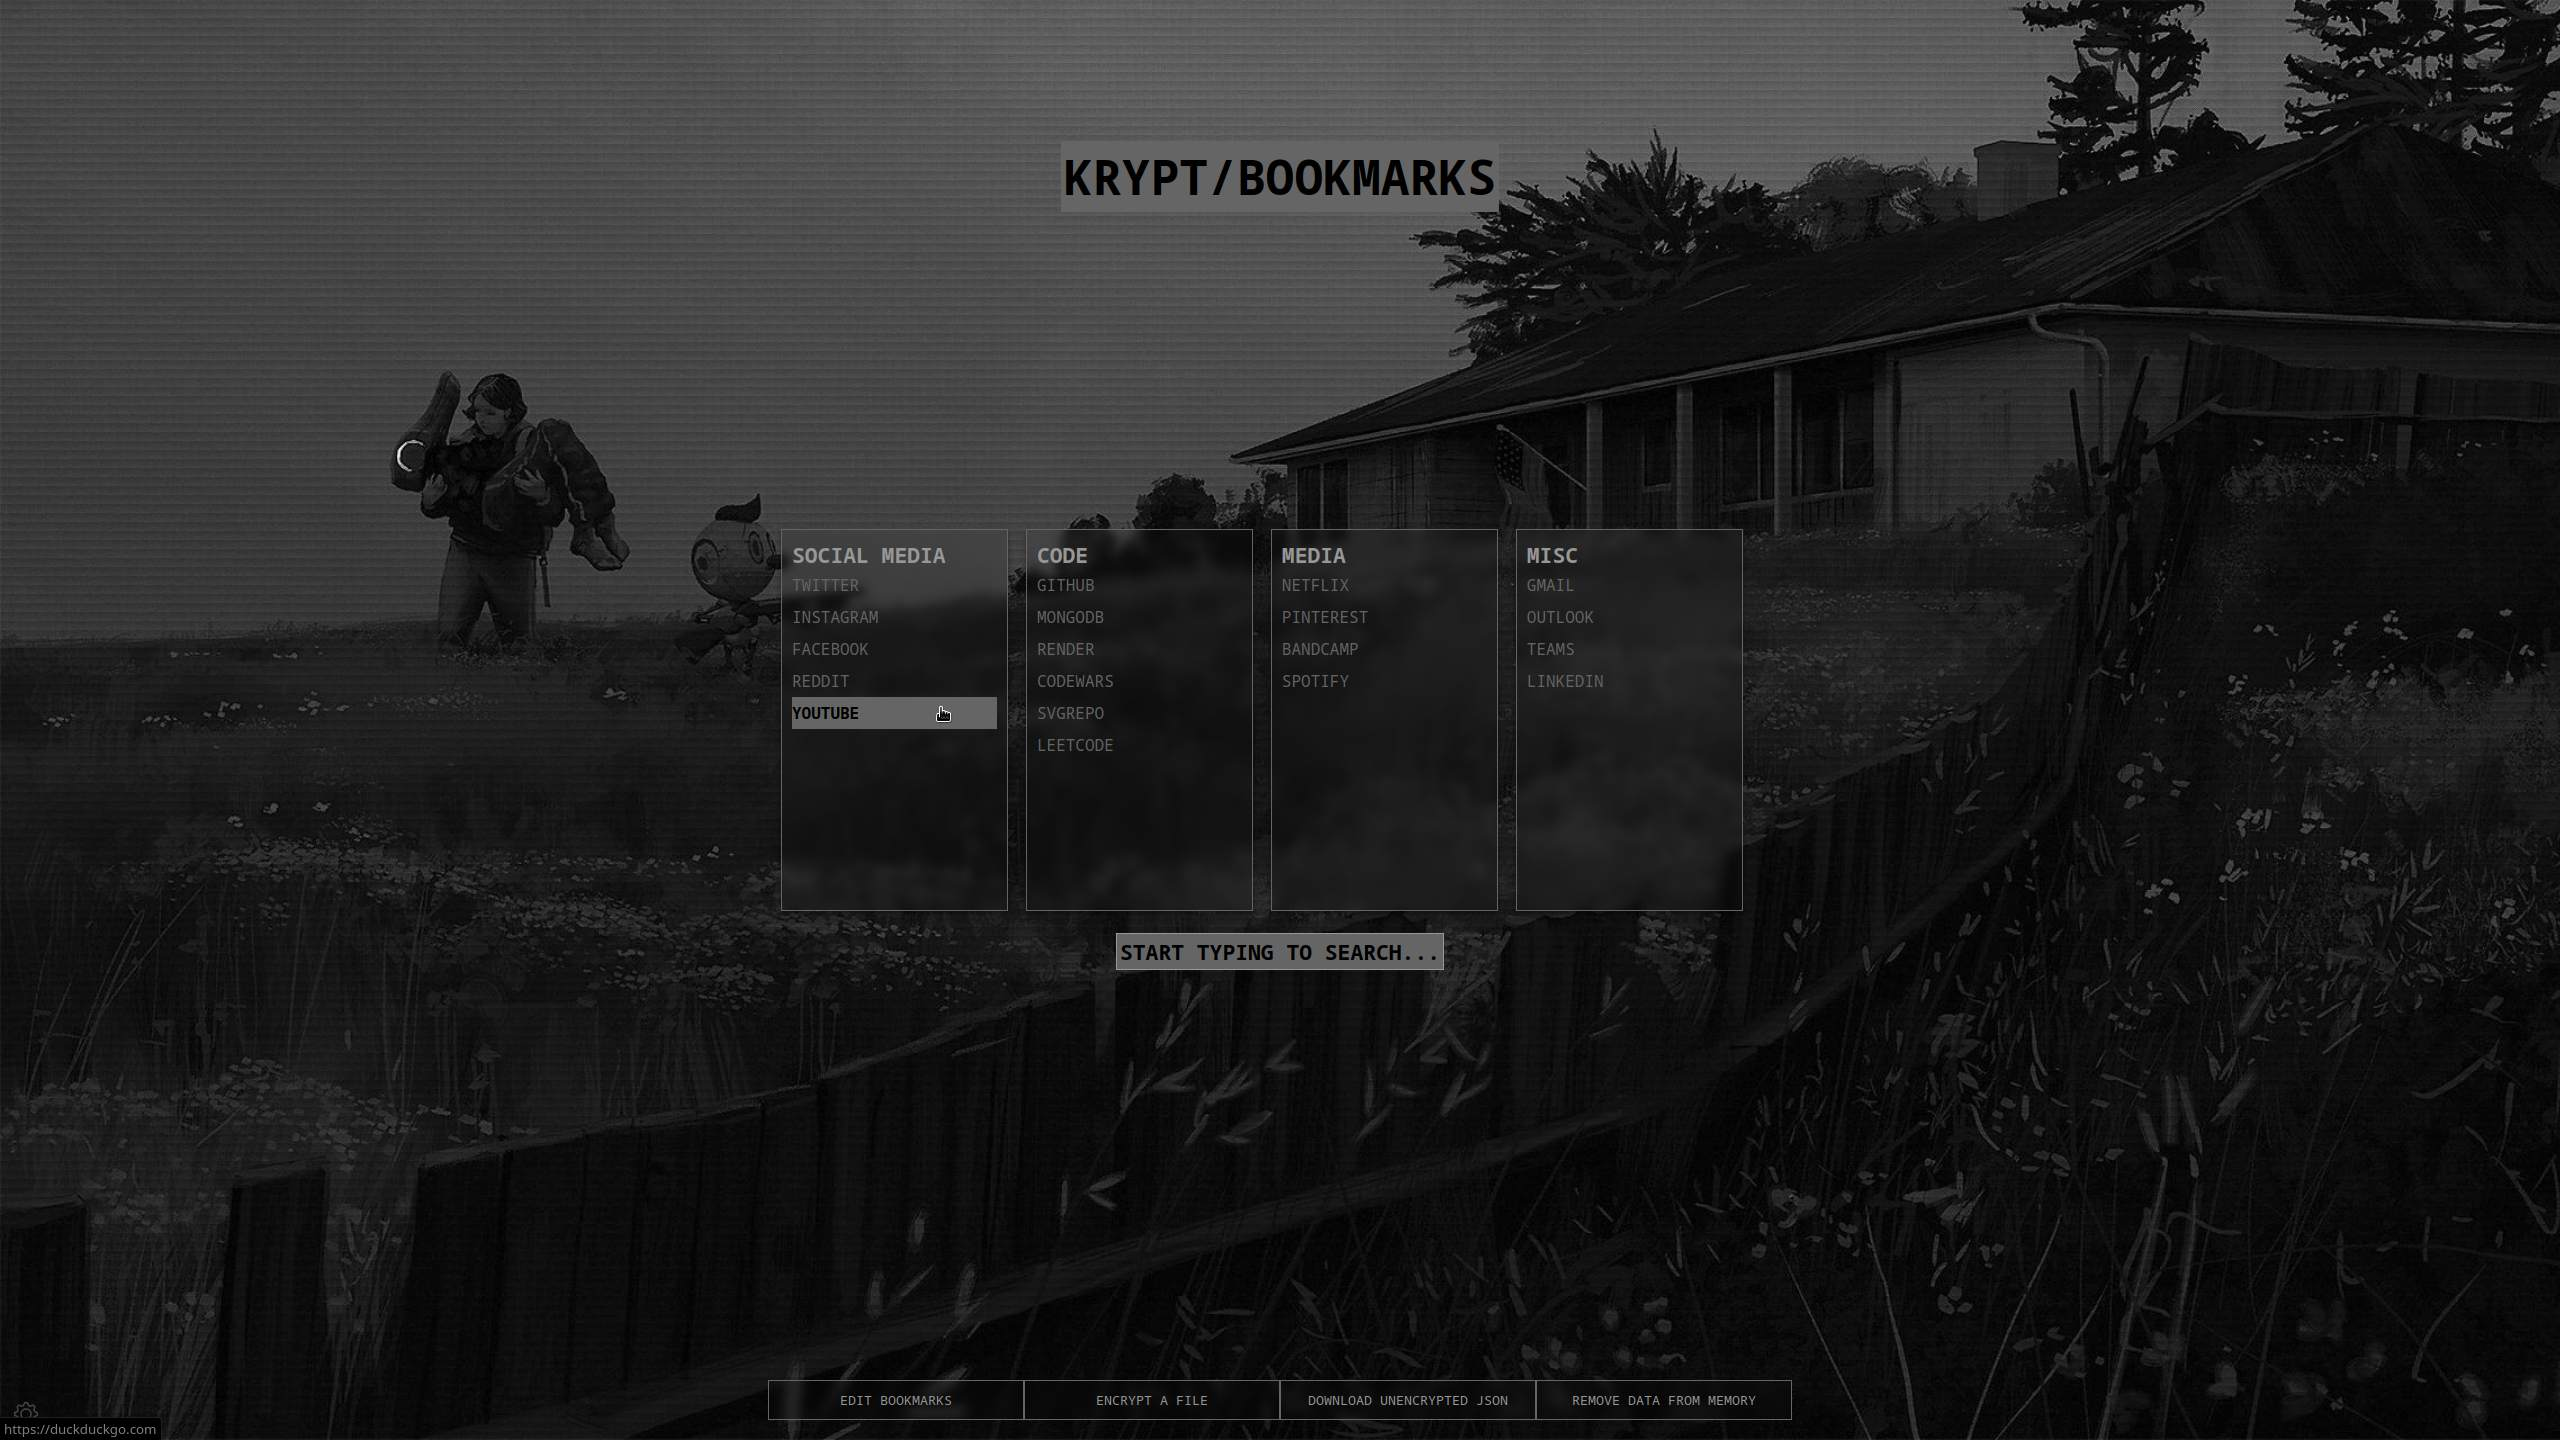
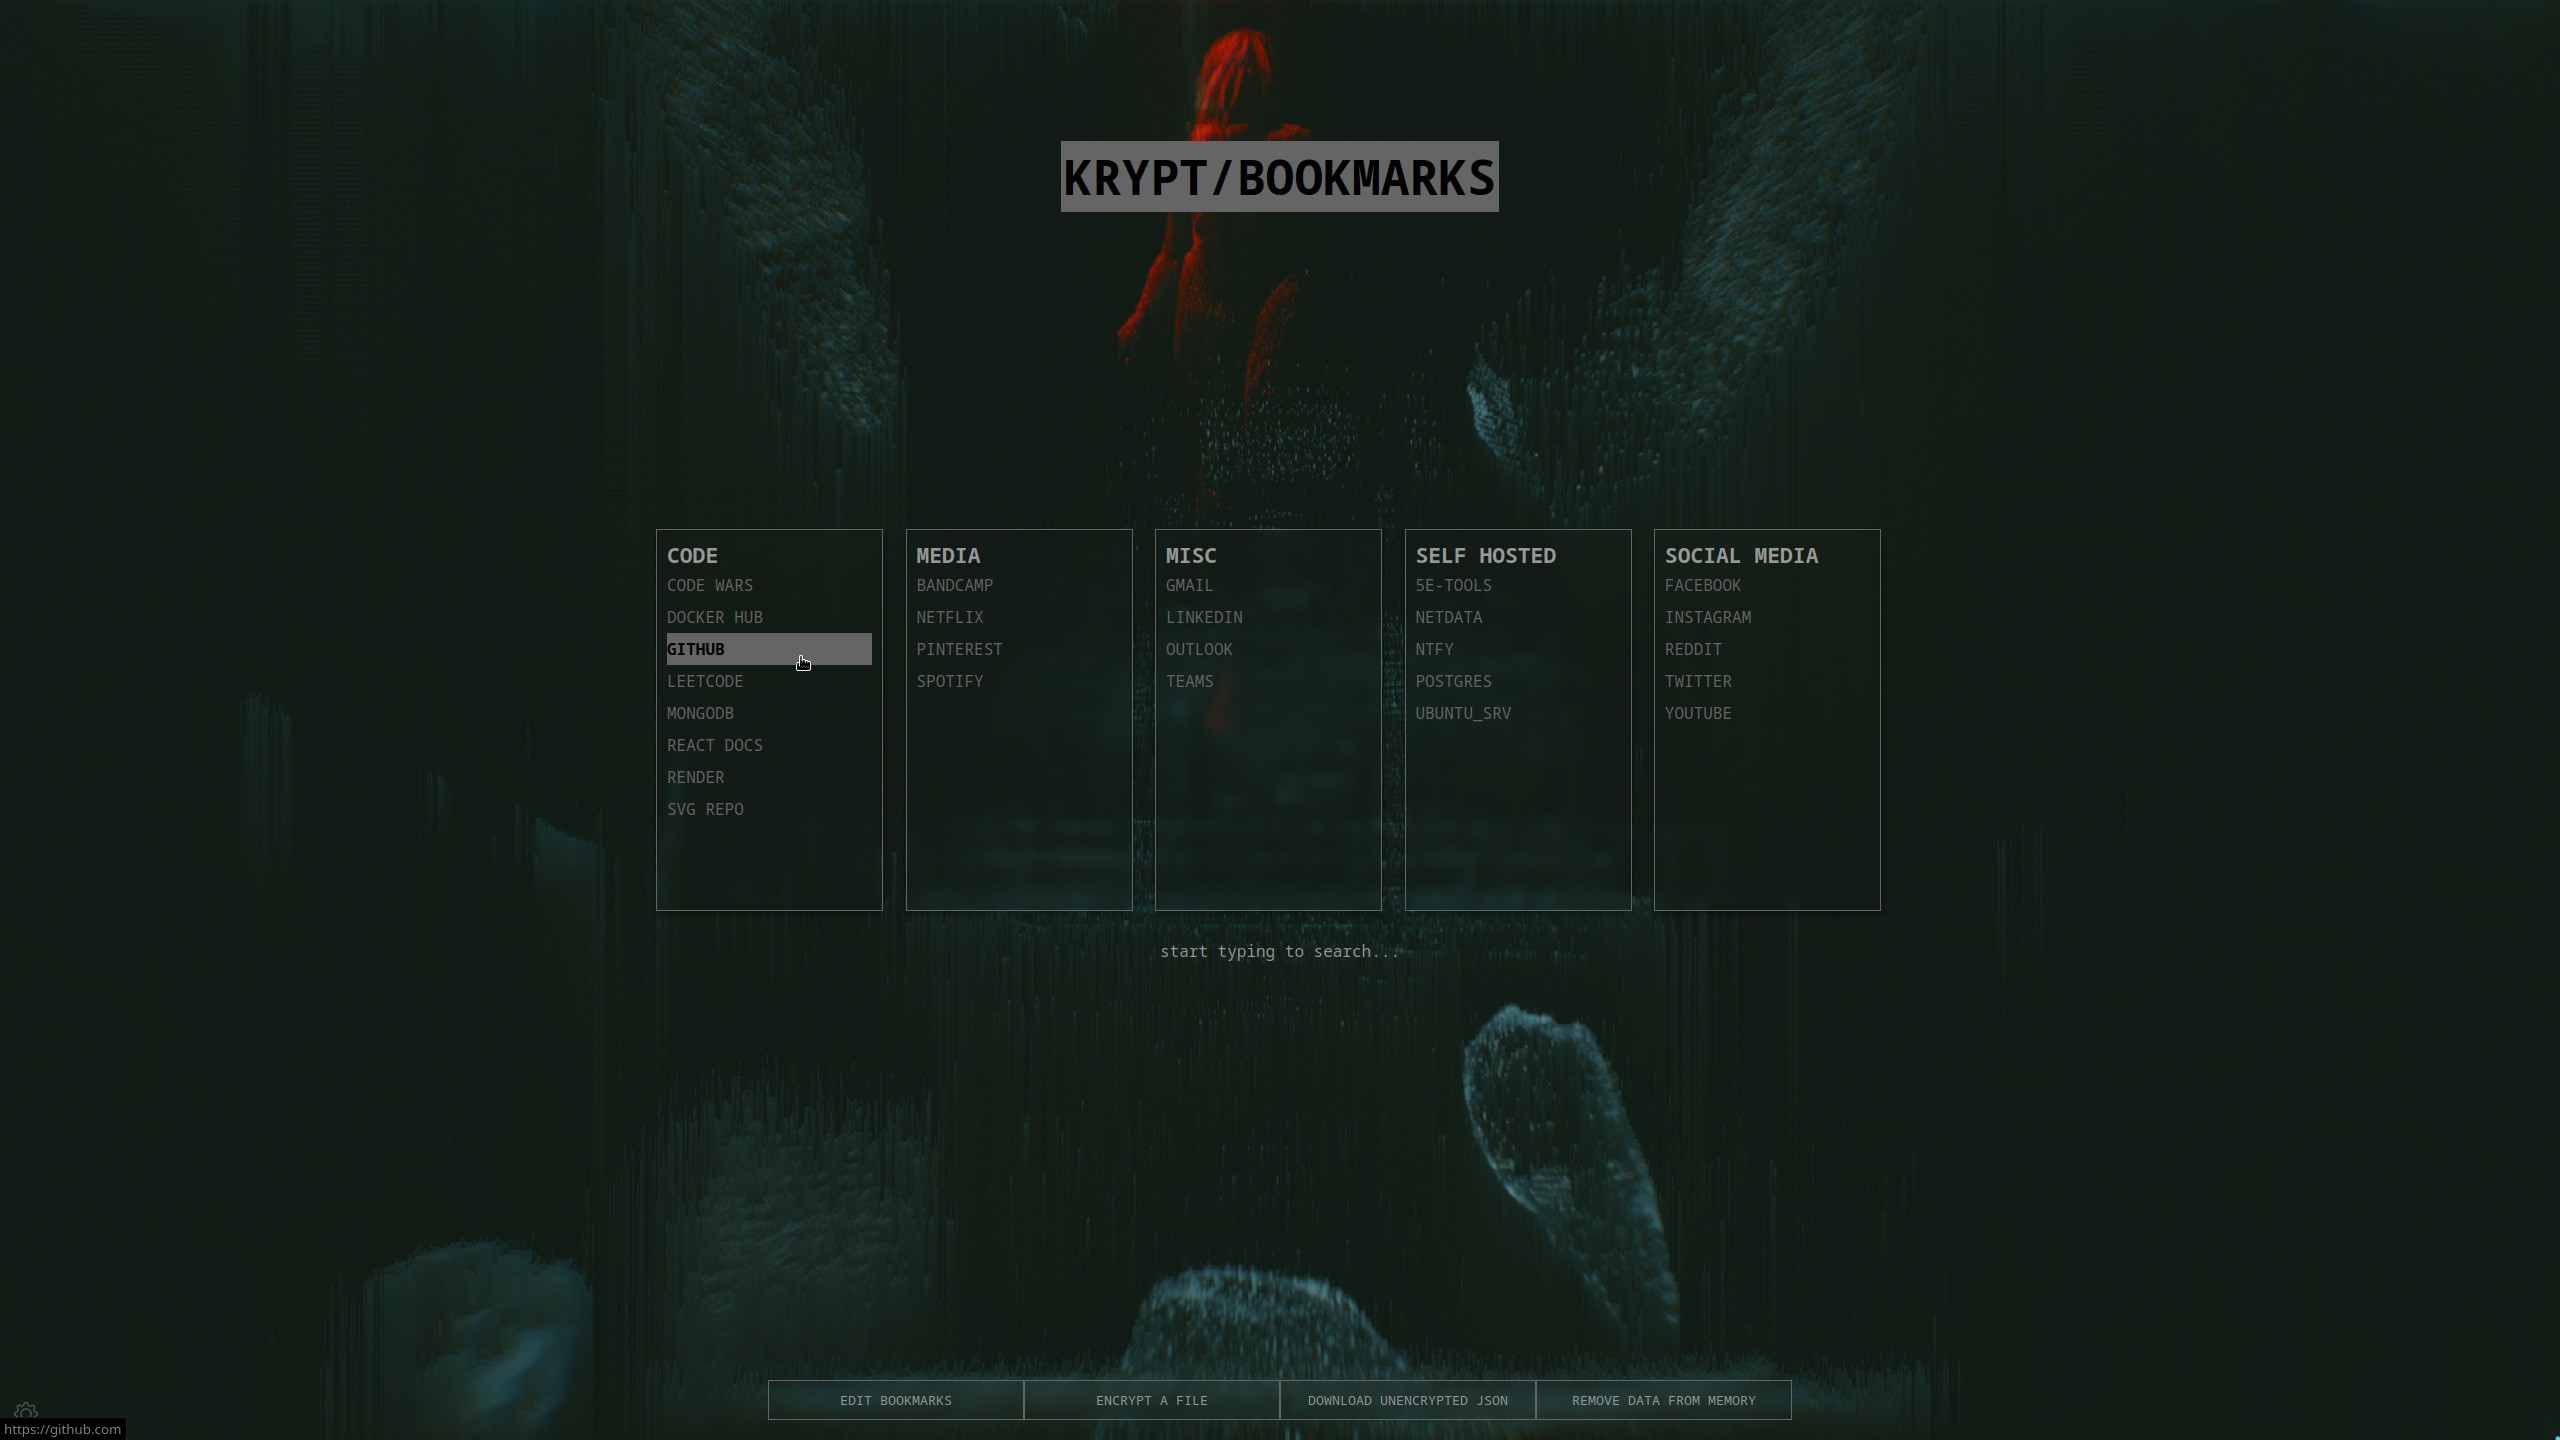
Data now gets fully sorted alphabetically when bookmarks instantiated

diff --git a/krypt-frontend/src/functions/bookmarksClass.js b/krypt-frontend/src/functions/bookmarksClass.js
@@ -29,7 +29,15 @@ export class Bookmarks {
       }
     }
     if (typeof bookmarksData === "object") {
-      this._bookmarksJSON = bookmarksData;
+      let sortedData = "";
+      try {
+        const sortedCategories = this.categorySorter(bookmarksData);
+        sortedData = this.linkSorter(sortedCategories);
+      } catch (err) {
+        console.log(err);
+        sortedData = bookmarksData;
+      }
+      this._bookmarksJSON = sortedData;
       this.checkStatus();
     }
   }
@@ -54,5 +62,35 @@ export class Bookmarks {
       "bookmarks",
       JSON.stringify(this._bookmarksJSON)
     );
+  }
+  categorySorter(categories) {
+    const sortedCategories = Object.entries(categories).sort((a, b) => {
+      if (a[0].toUpperCase() < b[0].toUpperCase()) {
+        return -1;
+      }
+      if (a[0].toUpperCase() > b[0].toUpperCase()) {
+        return 1;
+      }
+      return 0;
+    });
+    return sortedCategories;
+  }
+  linkSorter(bookmarksArr) {
+    const sortedLinks = [];
+    bookmarksArr.forEach((category) => {
+      sortedLinks.push([
+        category[0],
+        category[1].sort((a, b) => {
+          if (a.name.toUpperCase() < b.name.toUpperCase()) {
+            return -1;
+          }
+          if (a.name.toUpperCase() > b.name.toUpperCase()) {
+            return 1;
+          }
+          return 0;
+        }),
+      ]);
+    });
+    return Object.fromEntries(sortedLinks);
   }
 }

diff --git a/krypt-frontend/src/components/editor.js b/krypt-frontend/src/components/editor.js
@@ -4,14 +4,10 @@ import { v4 as uuidv4 } from "uuid";
 
 import { Bookmarks } from "../functions/bookmarksClass";
 import { dialogCloser } from "../functions/dialogCloser";
-import { linkSorter } from "../functions/linkSorter";
 
 export default function Editor(props) {
   const navigate = useNavigate();
-  const newState = new Bookmarks(
-    true,
-    Object.fromEntries(linkSorter(props.bookmarks.data))
-  );
+  const newState = new Bookmarks(true, props.bookmarks._bookmarksJSON);
   const [editorBookmarks, updateEditorBookmarks] = useState(newState);
   const [editorMap, updateEditorMap] = useState(
     editorMapper(editorBookmarks.data)

diff --git a/krypt-frontend/src/components/homepage/map.js b/krypt-frontend/src/components/homepage/map.js
@@ -1,10 +1,8 @@
 import { useEffect } from "react";
 import { v4 as uuidv4 } from "uuid";
 
-import { linkSorter } from "../../functions/linkSorter";
 
 export default function Map(props) {
-    console.log(props.bookmarks)
   function bookmarksMapper(bookmarks) {
     return (
       <>
@@ -39,7 +37,7 @@ export default function Map(props) {
     );
   }
 
-  const dataMap = bookmarksMapper(linkSorter(props.bookmarks));
+  const dataMap = bookmarksMapper(props.bookmarks);
 
   /////////////////////////// EVENT LISTENER ///////////////////////////
   useEffect(() => {
